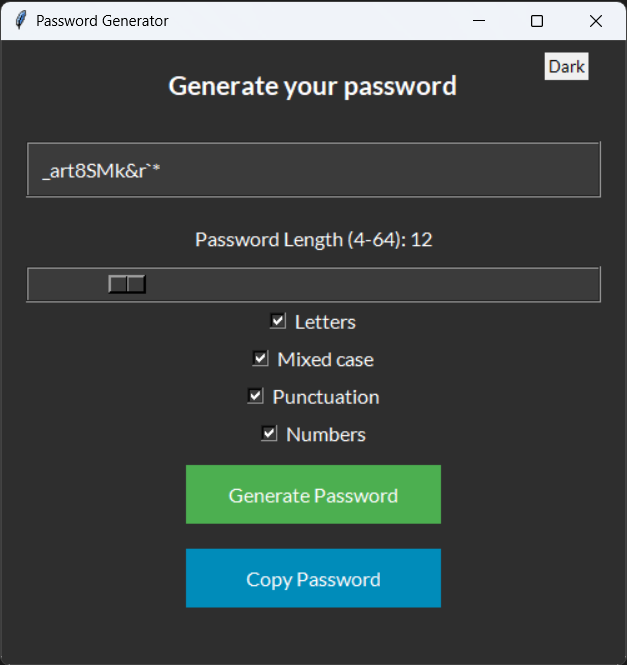
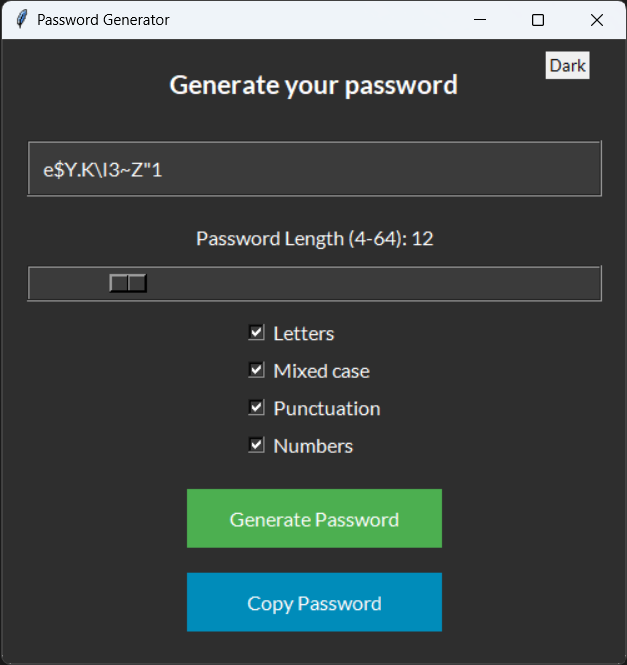
Align buttons and update screenshots

diff --git a/gui.py b/gui.py
@@ -45,6 +45,7 @@ def run_app():
         password_entry.config(bg="#3b3b3b", fg="white")
         slider_frame.config(bg="#3b3b3b")
         length_slider.config(bg="#3b3b3b", fg="white", troughcolor="#3b3b3b")
+        options_frame.config(bg="#2e2e2e")
         letters_check.config(bg="#2e2e2e", fg="white", selectcolor="#3b3b3b")
         mixed_case_check.config(bg="#2e2e2e", fg="white", selectcolor="#3b3b3b")
         punctuation_check.config(bg="#2e2e2e", fg="white", selectcolor="#3b3b3b")
@@ -59,6 +60,7 @@ def run_app():
         password_entry.config(bg="#ffffff", fg="black")
         slider_frame.config(bg="#ffffff")
         length_slider.config(bg="#ffffff", fg="black", troughcolor="#e0e0e0")
+        options_frame.config(bg="#f0f0f0")
         letters_check.config(bg="#f0f0f0", fg="black", selectcolor="#ffffff")
         mixed_case_check.config(bg="#f0f0f0", fg="black", selectcolor="#ffffff")
         punctuation_check.config(bg="#f0f0f0", fg="black", selectcolor="#ffffff")
@@ -103,19 +105,22 @@ def run_app():
     length_slider.pack(padx=10, pady=5, fill="x")
 
     # Checkboxes for options
+    options_frame = tk.Frame(window)
+    options_frame.pack(pady=10)
+
     letters_var = tk.BooleanVar(value=True)
     mixed_case_var = tk.BooleanVar(value=True)
     punctuation_var = tk.BooleanVar(value=True)
     numbers_var = tk.BooleanVar(value=True)
 
-    letters_check = tk.Checkbutton(window, text="Letters", variable=letters_var, font=font_style)
-    letters_check.pack()
-    mixed_case_check = tk.Checkbutton(window, text="Mixed case", variable=mixed_case_var, font=font_style)
-    mixed_case_check.pack()
-    punctuation_check = tk.Checkbutton(window, text="Punctuation", variable=punctuation_var, font=font_style)
-    punctuation_check.pack()
-    numbers_check = tk.Checkbutton(window, text="Numbers", variable=numbers_var, font=font_style)
-    numbers_check.pack()
+    letters_check = tk.Checkbutton(options_frame, text="Letters", variable=letters_var, font=font_style)
+    letters_check.grid(row=0, column=0, sticky="w")
+    mixed_case_check = tk.Checkbutton(options_frame, text="Mixed case", variable=mixed_case_var, font=font_style)
+    mixed_case_check.grid(row=1, column=0, sticky="w")
+    punctuation_check = tk.Checkbutton(options_frame, text="Punctuation", variable=punctuation_var, font=font_style)
+    punctuation_check.grid(row=2, column=0, sticky="w")
+    numbers_check = tk.Checkbutton(options_frame, text="Numbers", variable=numbers_var, font=font_style)
+    numbers_check.grid(row=3, column=0, sticky="w")
 
     # Generate and copy buttons
     generate_button = tk.Button(window, text="Generate Password", command=generate, font=font_style, bg="#4CAF50", fg="white", activebackground="#45a049", width=20, bd=0, padx=10, pady=10)
